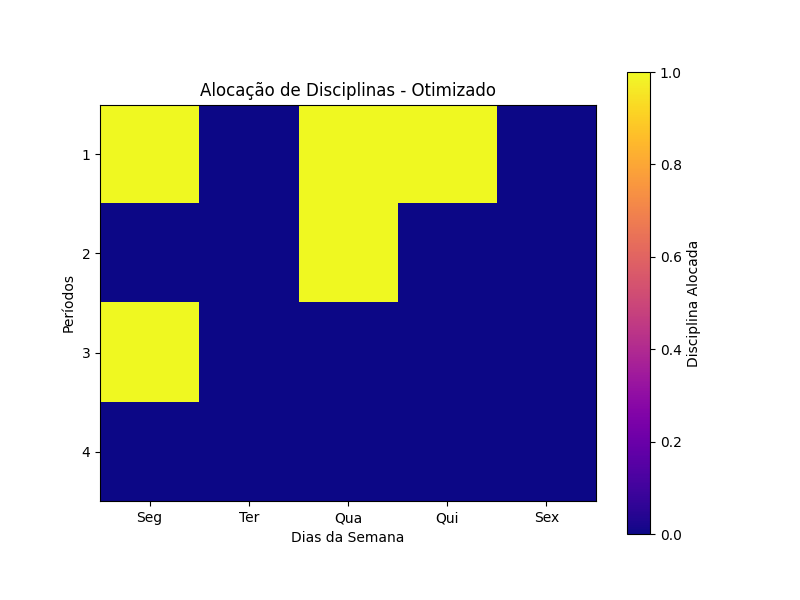
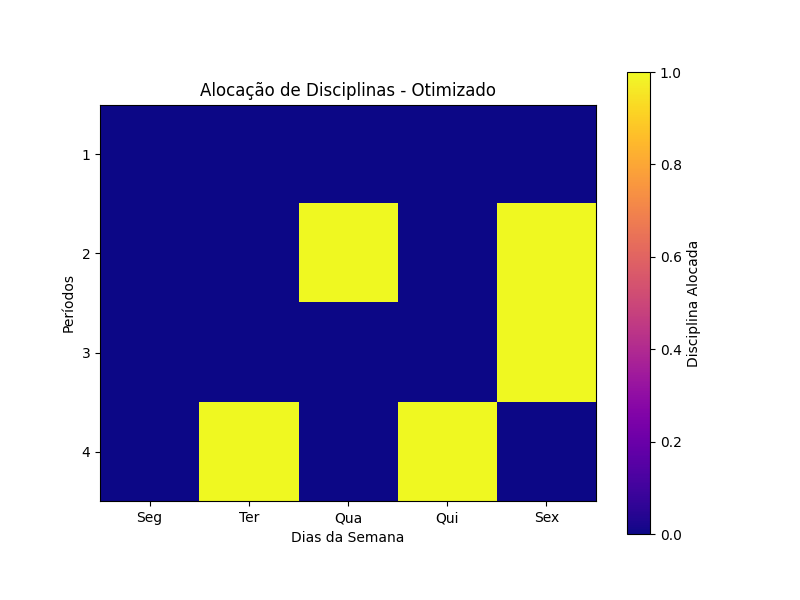
update crossover, mutacao

Changed region(s): [[0.375, 0.15, 0.75, 0.84], [0.125, 0.48, 0.375, 0.84], [0.125, 0.15, 0.25, 0.36]]

diff --git a/ag.py b/ag.py
@@ -9,10 +9,10 @@ NUM_DISCIPLINAS = 8
 
 disciplinas = {
     'Calculo 1': {'horario': 'segunda 08:00-10:00', 'pre_requisitos': []},
-    'Algoritmos': {'horario': 'segunda 10:00-12:00', 'pre_requisitos': ['Matemática']},
+    'Algoritmos': {'horario': 'segunda 10:00-12:00', 'pre_requisitos': ['Calculo 1']},
     'Fundamentos de Sistemas Inteligentes': {'horario': 'terça 08:00-10:00', 'pre_requisitos': ['Algoritmos']},
     'Redes de Computadores': {'horario': 'quarta 14:00-16:00', 'pre_requisitos': ['Algoritmos']},
-    'Banco de Dados': {'horario': 'quinta 08:00-10:00', 'pre_requisitos': ['Matemática']},
+    'Banco de Dados': {'horario': 'quinta 08:00-10:00', 'pre_requisitos': ['Calculo 1']},
     'Estruturas de Dados': {'horario': 'sexta 10:00-12:00', 'pre_requisitos': ['Algoritmos']},
     'Inteligência Artificial': {'horario': 'quarta 08:00-10:00', 'pre_requisitos': ['Fundamentos de Sistemas Inteligentes']},
     'Sistemas Operacionais': {'horario': 'terça 14:00-16:00', 'pre_requisitos': ['Algoritmos']},
@@ -114,45 +114,45 @@ def avaliar_horario(individuo):
                 # Atualiza os horários ocupados para o dia atual
                 horarios_ocupados[dia].add((horario_inicio, horario_fim))
         else:
-            conflitos += 1  # Se a disciplina não existir, cont+1 conflito
+            conflitos += 1  # Se a disciplina não existir, conta como conflito
 
     return conflitos,
 
+
 def inicializar_populacao(pop_size):
-    # Lógica para inicialização personalizada da população
     populacao = []
     for _ in range(pop_size):
-        # Criar indivíduos com uma distribuição preferencial de disciplinas
-
-        # Criação de um indivíduo fictício como exemplo
-        individuo = random.sample(disciplinas.keys(), len(disciplinas.keys()))
+        # Criação de um indivíduo 
+        individuo = gerar_horario_aleatorio()  
         populacao.append(individuo)
     
     return populacao
 
-def selecao(populacao):
-    return tools.selRouletteWheel(populacao, len(populacao))
+#Seleção é a própria seleção natural que vai eliminar os mais fracos
+def selecao(populacao, n):
+    return tools.selRoulette(populacao, n)
 
+#Cruzamento é a mistura entre dois individuos 
 def crossover(individuo1, individuo2):
-    return tools.cxUniform(individuo1, individuo2)
+    return tools.cxUniform(individuo1, individuo2, indpb=0.5)  
 
+#Surgimento de novas caracteristicas
 def mutacao(individuo, indpb=0.05):
-    return tools.mutShuffle(individuo, indpb)
+    return tools.mutShuffleIndexes(individuo, indpb)
 
 def diversity(population):
     unique_individuals = set(map(tuple, population))
     return len(unique_individuals) / len(population)
 
 def algoritmo_genetico(pop_size=100, n_gen=500):
+    #NEVALS é o numero de avaliações na ultima geração
     stats = tools.Statistics(lambda ind: ind.fitness.values)
     stats.register("avg", np.mean)
     stats.register("min", np.min)
     stats.register("max", np.max)
-    
-    # Registrar a função de diversidade corretamente
     stats.register("diversity", diversity)
-
-    # Inicialização personalizada da população usando criar_cromossomo
+    
+    # Inicialização personalizada da população
     pop = [toolbox.individual() for _ in range(pop_size)]
 
     # Avaliação inicial da população
@@ -200,9 +200,23 @@ toolbox.register("individual", tools.initIterate, creator.Individual, gerar_hora
 toolbox.register("population", tools.initRepeat, list, toolbox.individual)
 
 toolbox.register("evaluate", avaliar_horario)
-toolbox.register("mate", tools.cxBlend, alpha=0.5)
-toolbox.register("mutate", tools.mutUniformInt, low=1, up=NUM_DISCIPLINAS, indpb=0.2)
-toolbox.register("select", tools.selTournament, tournsize=3)
+toolbox.register("mate", crossover)  
+toolbox.register("mutate", mutacao)  
+toolbox.register("select", selecao)
+
+def imprimir_populacao(populacao, mensagem=""):
+    print(mensagem)
+    for ind in populacao:
+        print(ind)
+        
+def acompanhar_estatisticas(logbook):
+    for gen in logbook:
+        print(f"Geração {gen['gen']} - Melhor Fitness: {gen['min']}")
+
+def acompanhar_estatisticas_geracao(logbook, geracao):
+    gen = logbook[geracao]
+    print(f"Geração {gen['gen']} - Melhor Fitness: {gen['min']}")
+
 
 def sucesso():
     # Número de conflitos de horário na solução inicial
@@ -224,22 +238,34 @@ def sucesso():
     print("Média de conflitos de horário máxima:", media_maxima)
     print("Desvio padrão de conflitos de horário máxima:", desvio_maxima)
 
+def grafico():
+    gen = range(1, len(fit_avgs) + 1)  
+
+    plt.figure(figsize=(8, 6))
+    plt.plot(gen, fit_avgs, label='Média de Conflitos')
+    plt.title('Evolução da Média de Conflitos ao Longo das Gerações')
+    plt.xlabel('Geração')
+    plt.ylabel('Média de Conflitos')
+    plt.legend()
+    plt.grid(True)
+    plt.show()
+
 if __name__ == "__main__":
     horarios_iniciais = gerar_horario_inicial()
     plot_horarios(horarios_iniciais, 'Inicial', 'antes')
 
-    pop_final, logbook = algoritmo_genetico(n_gen=500)  
+    pop_final, logbook = algoritmo_genetico(n_gen=500)
 
     gen = logbook.select("gen")
     fit_mins = logbook.select("min")
     fit_avgs = logbook.select("avg")
     fit_maxs = logbook.select("max")
     diversity = logbook.select("diversity")
-        
-    # horários otimizados pós algoritmo genético
+    
+    #Horários otimizados pós algoritmo genético
     horarios_otimizados_depois = criar_cromossomo(disciplinas, NUM_PERIODOS, TAMANHO_PERIODO)
     plot_horarios(horarios_otimizados_depois, 'Otimizado', 'depois')
-        
+     
     num_periodos = 4
     tamanho_periodo = 5
     horarios_finais = criar_cromossomo(disciplinas, num_periodos, tamanho_periodo)
@@ -247,4 +273,3 @@ if __name__ == "__main__":
     for periodo in horarios_finais:
         print(periodo)
         
-    sucesso()

diff --git a/README.md b/README.md
@@ -36,3 +36,5 @@ Executa o algoritmo genético para otimização dos horários.
 Mostra estatísticas da otimização.
 Gera e exibe os horários otimizados após a execução do algoritmo genético.
 Imprime os horários finais gerados.
+
+![Alt text](image.png)
